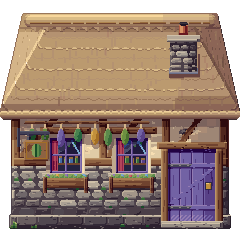
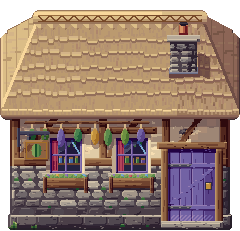
WIP: the herbalist's roof as a hipped thatch seen from above the front

Changed region(s): [[0.0, 0.0303, 1.0, 1.0], [0.9625, 0.9394, 0.9917, 0.9697]]

diff --git a/scripts/art/native/houses.py b/scripts/art/native/houses.py
@@ -893,6 +893,225 @@ def combed_eave(a, rm, rx0, rx1, y_eave, rng, fam='sand'):
     return em
 
 
+# ------------------------------------------------------------------------------------------------
+# hipped thatch seen from above the front (`thatch_form: hipped` in the look; Matt, 13 Nov, on the
+# herbalist's: "the roof looks wrong"). The combed roof was one trapezoid: a front elevation with no
+# depth, over walls and beside gable roofs that all show theirs, so it read as a flat sheet tilted
+# toward the eye. This one is the roof as the village's view shows every other roof: the front
+# slope, and a hip end each side running back from the front corner to the ridge (the west one lit,
+# the east one in shade), the thatch laid in courses a hand deep whose butt ends catch the light and
+# throw a line of shade on the course below, a block-cut ridge cap stitched with hazel, and an eave a
+# forearm thick, cut ends over a dark underside.
+# ------------------------------------------------------------------------------------------------
+HIP_RUN = 13.0           # world px from a front corner in to the ridge's end
+HIP_BACK = 6.6           # world px the ridge stands above the back eave on screen (the roof's far side)
+HIP_EAVE = 3.2           # world px of the eave's cut face
+HIP_COURSE = 4.4         # world px a course shows on the front slope
+HIP_CAP = 6.4            # world px of the ridge cap, its points included
+
+
+def hipped_form(shape, x0, x1, y_r, y_eave, hr, back, th):
+    """The roof's planes as masks: (roof, front, west hip, east hip, eave face), and each texel's
+    height on the roof t (0 at the eave's lip, 1 at the ridge)."""
+    H, W = shape
+    Y, X = np.mgrid[0:H, 0:W] + 0.5
+    lip = y_eave - th
+    y_b = y_r + back
+    t_f = np.clip((lip - Y) / max(1.0, lip - y_r), 0, 1)                 # the front slope's height at this row
+    xa_w, xa_e = x0 + hr * t_f, x1 - hr * t_f                             # the hip arrises
+    inx = (X >= x0) & (X < x1)
+    # the back arris of each hip end: from the back corner up to the ridge's end
+    top_w = y_b - back * np.clip((X - x0) / max(1.0, hr), 0, 1)
+    top_e = y_b - back * np.clip((x1 - X) / max(1.0, hr), 0, 1)
+    top = np.where(X < (x0 + x1) / 2, top_w, top_e)
+    body = inx & (Y >= top) & (Y < lip)
+    west = body & (X < xa_w)
+    east = body & (X >= xa_e)
+    front = body & ~west & ~east
+    eave = inx & (Y >= lip) & (Y < y_eave)
+    for cxc, side in ((x0 + 6, -1), (x1 - 6, 1)):                         # the eave's lower corners, rounded
+        corner = eave & ((X - cxc) * side > 0) & (Y > y_eave - 6) & ((X - cxc) ** 2 + (Y - (y_eave - 6)) ** 2 > 36)
+        eave &= ~corner
+    for cxc, side in ((x0 + 7, -1), (x1 - 7, 1)):                         # the back corners, a thatch's round
+        corner = body & ((X - cxc) * side > 0) & (Y < y_b + 7) & ((X - cxc) ** 2 + (Y - (y_b + 7)) ** 2 > 49)
+        west &= ~corner
+        east &= ~corner
+    # on a hip end the roof's height runs across the screen: t from the outer edge in to the ridge's end
+    t_w = np.clip((X - x0) / max(1.0, hr), 0, 1)
+    t_e = np.clip((x1 - X) / max(1.0, hr), 0, 1)
+    t = np.where(west, t_w, np.where(east, t_e, t_f))
+    return front | west | east | eave, front, west, east, eave, t
+
+
+def hipped_thatch(a, x0, x1, y_r, y_eave, rng, keep):
+    """Paint the hipped thatch (see above) and return (roof mask, lightness field). The value is an
+    OKLab lightness mapped onto the straw's own ramps (`straw_codes`), as the combed roof's was."""
+    H, W = a.shape
+    Y, X = np.mgrid[0:H, 0:W]
+    hr, back, th = q(HIP_RUN), q(HIP_BACK), q(HIP_EAVE)
+    lip = y_eave - th
+    rm, front, west, east, eave, t = hipped_form(a.shape, x0, x1, y_r, y_eave, hr, back, th)
+    fx = (X + 0.5 - x0) / max(1, x1 - x0)
+    span = lip - y_r
+    # --- the courses: where each one's butt ends lie, as a height on the roof ---------------------------
+    ch = q(HIP_COURSE)
+    edges_h = [0.0]
+    while edges_h[-1] < span - q(HIP_CAP) - 4:
+        edges_h.append(edges_h[-1] + ch + float(rng.integers(-1, 2)))
+    edges_h = np.array(edges_h[1:-1]) if len(edges_h) > 2 else np.array([span * 0.5])
+    hgt = t * span                                                        # texels up the slope
+    # the bundles' ragged ends: along the front they run in x, on a hip end in y
+    u = np.where(front | eave, X, Y + 700).astype(int)
+    L = np.full(a.shape, 0.0)
+    base_f = 0.71 + 0.03 * (fx < 0.34) - 0.04 * (fx > 0.74)
+    L = np.where(front, base_f, L)
+    L = np.where(west, 0.81, L)
+    L = np.where(east, 0.54, L)
+    lit_e = np.zeros(a.shape, bool)
+    shade_e = np.zeros(a.shape, bool)
+    for k, eh in enumerate(edges_h):
+        cuts = [-40]
+        while cuts[-1] < 1400:
+            cuts.append(cuts[-1] + int(rng.integers(5, 12)))
+        cuts = np.array(cuts)
+        rag = rng.integers(-1, 3, len(cuts)).astype(float)               # each bundle's end a texel or two up or down
+        bi = np.clip(np.searchsorted(cuts, u, side='right') - 1, 0, len(cuts) - 2)
+        # on the front a course's end is `d` texels above its edge; on a hip the slope is steeper on
+        # screen (hr texels for the whole height), so its bands are narrower
+        scale = np.where(front, 1.0, span / max(1.0, hr))
+        # each bundle's end is rounded: its first and last texel a row shorter, and a gap's width of
+        # shade between it and the next, so a course ends in a row of bundle tips, never a board's edge
+        pos = u - cuts[bi]
+        wid = cuts[bi + 1] - cuts[bi]
+        ends = (pos == 0) | (pos == wid - 1)
+        d = (hgt - (eh + (rag[bi] + ends) * np.where(front, 1.0, 0.0))) / scale
+        butt = front & (d >= 0) & (d < 2.0)
+        butt2 = front & (d >= 2.0) & (d < 4.0) & ~ends
+        cast = front & (d < 0) & (d >= -2.0)
+        cast2 = front & (d < -2.0) & (d >= -3.0)
+        L = np.where(butt, L + np.where(ends, 0.0, 0.10), L)
+        L = np.where(butt2, L + 0.035, L)
+        L = np.where(cast, L - 0.13, L)
+        L = np.where(cast2, L - 0.06, L)
+        # on a hip end the courses run back from the eye, so each shows only as a line of shade under
+        # the course above it (two rows of straw on the lit hip keep their lit edge)
+        hcast = (west | east) & (d < 0) & (d >= -1.0) & (k % 2 == 0)
+        L = np.where(hcast, L - np.where(west, 0.08, 0.05), L)
+        lit_e |= butt | butt2
+        shade_e |= cast | cast2 | hcast
+    # --- the planes' turns --------------------------------------------------------------------------------
+    t_f = np.clip((lip - (Y + 0.5)) / max(1.0, span), 0, 1)
+    xa_w, xa_e = x0 + hr * t_f, x1 - hr * t_f
+    arris_w = (front | west) & (np.abs(X + 0.5 - xa_w) < 1.5) & (Y < lip - 2)
+    L = np.where(arris_w, 0.89, L)                                        # the west hip's rounded turn, lit
+    crease = (front | east) & (X + 0.5 - xa_e >= -1.0) & (X + 0.5 - xa_e < 2.0)
+    L = np.where(crease, np.minimum(L, 0.46), L)                          # the east hip's turn, away from the light
+    L = np.where(west & (X < x0 + 2), 0.87, L)                            # the west eave's lit rim
+    L = np.where(east & (X >= x1 - 2), 0.45, L)
+    code_ = straw_codes(L)
+    # --- combing: strands along the fall (down the front, across a hip end), on a sibling at the same tone --
+    sibs = [FI[f] for f in SAND_SIBS]
+    calm = (front | west | east) & ~lit_e & ~shade_e & ~arris_w & ~crease
+    for _ in range(int(rm.sum() / 26)):
+        sx, sy = int(rng.integers(x0, x1 - 2)), int(rng.integers(y_r, lip))
+        n = int(rng.integers(4, 10))
+        if front[sy, sx]:
+            sl = (slice(sy, min(H, sy + n)), slice(sx, sx + 2))
+        elif (west[sy, sx] or east[sy, sx]) and rng.random() < 0.35:
+            sl = (slice(sy, min(H, sy + 2)), slice(sx, min(W, sx + n)))
+        else:
+            continue
+        ok = calm[sl]
+        c0 = code_[sl]
+        if rng.random() < 0.3:
+            code_[sl] = np.where(ok, straw_codes(L[sl] - 0.07), c0)       # a darker strand, weathered
+        else:
+            nf = np.where(c0 // 8 == sibs[1], sibs[2] if rng.random() < 0.6 else sibs[0], sibs[1])
+            code_[sl] = np.where(ok, nf * 8 + c0 % 8, c0)
+    a[front | west | east] = code_[front | west | east]
+    # --- the eave: the lip's lit tips, the cut ends, the underside turning under ---------------------------
+    rel = Y - lip
+    Le = np.full(a.shape, 0.68)
+    x = x0
+    while x < x1:
+        n = int(rng.integers(5, 11))
+        cols = (X >= x) & (X < x + n)
+        drop = int(rng.integers(0, 2))                                    # some bundles' tips a texel lower
+        Le = np.where(cols & (rel == drop), 0.89, Le)
+        Le = np.where(cols & (rel == drop + 1), 0.81, Le)
+        Le = np.where(cols & (rel < drop), 0.71, Le)
+        Le = np.where(cols & (X == x) & (rel <= drop + 1), 0.71, Le)      # the gap between two bundles
+        # the cut ends: pairs of columns a step apart, each its own length
+        k = x
+        while k < x + n:
+            dl = 0.045 if ((k // 2) % 2) else -0.03
+            ln = int(rng.integers(2, 5))
+            Le = np.where((X >= k) & (X < k + 2) & (rel >= drop + 2) & (rel < drop + 2 + ln), 0.68 + dl, Le)
+            k += 2
+        x += n
+    Le = np.where(rel >= th - 4, np.select([rel >= th - 1, rel >= th - 2, rel >= th - 3], [0.43, 0.46, 0.54], 0.60), Le)
+    Le = np.where((fx > 0.74) & (rel < th - 3), Le - 0.05, Le)
+    a[eave] = straw_codes(Le)[eave]
+    # the eave's own shade on the last course of the hips' feet: none; the lip is the brightest straw
+    # --- the ridge cap: a raised roll, block-cut along its foot, stitched with hazel ----------------------
+    cap_h = q(HIP_CAP)
+    pts_h = 6
+    cx0, cx1 = x0 + hr - 7, x1 - hr + 7
+    yc0 = y_r - 3
+    rr = 6.0
+    core = (X >= cx0) & (X < cx1) & (Y >= yc0) & (Y < yc0 + cap_h - pts_h)
+    for ex, side in ((cx0 + rr, -1), (cx1 - rr, 1)):                      # its ends rounded
+        cut = core & ((X + 0.5 - ex) * side > 0) & ((X + 0.5 - ex) ** 2 + (Y + 0.5 - (yc0 + rr)) ** 2 > rr * rr) & (Y < yc0 + rr)
+        core &= ~cut
+    bw = 12
+    pts = np.zeros(a.shape, bool)
+    yb = yc0 + cap_h - pts_h
+    xk = cx0 + 2
+    while xk + bw <= cx1 - 1:
+        c = xk + bw / 2.0
+        kk = Y - yb
+        pts |= (kk >= 0) & (kk < pts_h) & (np.abs(X + 0.5 - c) < (bw / 2.0) * (1 - kk / (pts_h + 0.5)))
+        xk += bw
+    cap = core | pts
+    relc = Y - yc0
+    fxc = (X + 0.5 - cx0) / max(1, cx1 - cx0)
+    Lc = np.select([relc < 1, relc < 5, relc < 8, relc < 11], [0.81, 0.89, 0.81, 0.71], 0.60)
+    Lc = np.where(pts, np.where(((X - cx0 - 2) % bw) < bw / 2, 0.81, 0.68), Lc)
+    Lc = np.where(pts & (relc >= cap_h - 2), Lc - 0.08, Lc)
+    Lc = Lc - 0.06 * (fxc > 0.74)
+    # its shade on the slope under the points, two texels deep and following them
+    under = ndi.binary_dilation(cap, structure=np.array([[0, 1, 0], [0, 1, 0], [0, 0, 0]], bool), iterations=3) & ~cap & rm
+    a[under] = straw_codes(np.minimum(L, 0.71) - 0.16)[under]
+    a[cap] = straw_codes(Lc)[cap]
+    # the liggers: two hazel rods along the cap and the spars stitched between them in a row of Vs
+    stitch = np.zeros(a.shape, bool)
+    r0, r1 = yc0 + 4, yc0 + 10
+    inner = (X >= cx0 + 5) & (X < cx1 - 5)
+    stitch |= core & inner & ((Y == r0) | (Y == r1))
+    ph = (X - cx0 - 5) % 12
+    for j, rowy in enumerate(range(r0 + 1, r1)):
+        stitch |= core & inner & (Y == rowy) & (((ph >= j) & (ph < j + 2)) | ((ph >= 10 - j) & (ph < 12 - j)))
+    a[stitch] = code('timber_warm', 2)
+    a[stitch & (fxc < 0.6) & (Y == r0)] = code('timber_warm', 3)
+    keep |= stitch
+    rm = rm | cap
+    plane = np.where(cap, Lc, np.where(eave, Le, L))
+    return rm, plane, dict(front=front, lip=lip, courses=[int(round(lip - e)) for e in edges_h])
+
+
+def stack_shade(a, rm, sx1, y_top, y_foot):
+    """A stack's shadow on the thatch east and south of it (the one light, upper left): a wedge two
+    ramp steps down, hard-edged, so the stack stands in the roof and not on it."""
+    Y, X = np.mgrid[0:a.shape[0], 0:a.shape[1]]
+    n = q(4.0)
+    k = X - sx1
+    m = rm & (k >= 0) & (k < n) & (Y >= y_top + q(3.0) + k * 0.6) & (Y < y_foot + 2 + k * 0.5)
+    straw = m & (a >= 0) & np.isin(a // 8, [FI[f] for f in SAND_SIBS])
+    a[straw] = (a[straw] // 8) * 8 + np.maximum(a[straw] % 8 - 2, 0)
+    return straw
+
+
+
 def eave_line(a, L, R, y_top, keep):
     """The crisp line under the thatch's eave on the wall (eastward-edges 11.9's band under the
     bargeboards, GR4): two texels about 70 % darker, nothing in them above GABLE_LINE_MAX of the
@@ -2093,6 +2312,63 @@ def doors_on_grid(spec: dict) -> dict:
 
 
 def building(spec: dict, seed: int = 0) -> 'V.Built':
+    if spec.get('thatch_form') == 'hipped':
+        return hipped_building(spec, seed)
+    return _building(spec, seed)
+
+
+def hipped_building(spec: dict, seed: int) -> 'V.Built':
+    """A house whose thatch is redrawn as a hipped roof seen from above the front (13 Nov, the
+    herbalist's). The house is first built as it was (its walls, openings, sign, weeds, the eave's
+    shade on the wall, the storm's boards and cracks: every draw of its generator as before), and then
+    only what stands above the eave's foot is drawn again, from a generator of its own: the roof, its
+    stack, and in the damage picture the gap torn in it. So nothing below the eave changes by a texel,
+    and the house's shadow and the lawn laid round it stay as they were."""
+    old = _building({k: v for k, v in spec.items() if k != 'thatch_form'}, seed)
+    p, info = old.base, old.info
+    a = p.a
+    L, R, y_e, y_r, y_eave = info['L'], info['R'], info['y_e'], info['y_r'], info['y_eave']
+    Y, X = np.mgrid[0:a.shape[0], 0:a.shape[1]]
+    above = Y < y_eave
+    a[above] = -1
+    a[(Y >= y_eave) & (Y < y_eave + 2) & ((X < L - 1) | (X > R))] = -1      # the old eave's outline under its overhang
+    rng = np.random.default_rng((seed * 9176 + 13) & 0xffffffff)
+    keep = np.zeros(a.shape, bool)
+    rx0, rx1 = info['rx']
+    rm, plane, hp = hipped_thatch(a, max(1, rx0), min(a.shape[1] - 1, rx1), y_r, y_eave, rng, keep)
+    pots = []
+    if spec.get('chimney') and spec.get('stack_t') is not None:
+        cw = q(spec.get('chimney_w', 9))
+        for cx in spec['chimney']:
+            y_foot = int(round(y_eave - spec['stack_t'] * (y_eave - y_r)))
+            rise = spec.get('stack_rise', 11.0)
+            pp, sm = thatch_stack(a, rm, plane, L + q(cx), cw, y_foot, rise, rng, wide=cw >= q(12))
+            pots += pp
+            keep |= sm & (a // 8 == FI['slate_cool'])
+            stack_shade(a, rm & ~sm, int(L + q(cx) - cw // 2) + cw + 1, y_foot - q(rise), y_foot)
+    V.tidy(a, keep=keep | ~above)
+    V.outline(a)
+    V.tidy(a, passes=1, keep=keep | ~above)
+    info.update(roof=rm, hipped=hp, pots=pots, calm=ndi.binary_dilation(rm, iterations=1))
+    dmg = old.damage
+    if dmg is not None:
+        d = dmg.a
+        d[above] = -1
+        cut = np.zeros(a.shape, bool)
+        for tok in spec.get('damage', []):
+            if isinstance(tok, list) and tok[0] == 'hole':
+                cx = L + q(tok[1])
+                was = d >= 0
+                thatch_tear(d, a, info, cx, np.random.default_rng((seed * 31 + cx * 7919) & 0xffffffff))
+                cut |= (d >= 0) & ~was
+        # the gap and the straw pulled out of it are the roof's own surface, not things standing on it:
+        # they get no outline. Where the old picture's outline ran along the cut at the eave's foot, it stays
+        lone = cut & ~ndi.binary_opening(cut, structure=np.ones((1, 2), bool)) & ~ndi.binary_opening(cut, structure=np.ones((2, 1), bool))
+        d[lone] = -1
+    return V.Built(p, dmg, info)
+
+
+def _building(spec: dict, seed: int = 0) -> 'V.Built':
     spec = VO.front_gable(doors_on_grid(spec), seed)
     rng = np.random.default_rng(seed)
     w, dep = spec['w'], spec['depth']
@@ -2734,6 +3010,107 @@ def thatch_hole(d, base, info, cxw, rw, rh, rng):
         slumped_bundles(d, base, m, rm, rng)
     else:
         scorch(d, base, (xs.min() + xs.max()) / 2, (top + bot) / 2, (xs.max() - xs.min()) * 0.75, (bot - top) * 0.9, rng, rm & ~m)
+
+
+def thatch_tear(d, base, info, cxw, rng):
+    """The storm's hole in a hipped thatch (Matt's roof, 13 Nov): three courses ripped out, each a
+    different length, so the gap follows the courses and its sides are ragged. In it the roof's depth
+    shows: under the torn upper edges the thatch's own section (a hand and a half of packed straw, cut
+    ends, darker towards the loft) with strands hanging from it; two rafters running down the slope, the
+    east one snapped, and what is left of the hazel battens across them, one hanging; the loft dark
+    behind, darkest under the edges. The straw below the gap ends in a torn lip that catches the light,
+    its broken ends standing up into the dark. Returns the gap's mask."""
+    hp = info['hipped']
+    rm, front = info['roof'], hp['front']
+    cs = sorted(hp['courses'])                                    # rows of the courses' edges, top first
+    cy = info['y_r'] + (info['y_eave'] - info['y_r']) * 0.47
+    i = int(np.argmin([abs(c - cy) for c in cs]))
+    i = min(max(i, 1), len(cs) - 3)
+    y0, y1, y2, y3 = cs[i - 1], cs[i], cs[i + 1], cs[i + 2]
+    Y, X = np.mgrid[0:d.shape[0], 0:d.shape[1]]
+
+    def torn(xa, xb, ya, yb):
+        """One course's gap: its ends ragged in runs of rows."""
+        m = np.zeros(d.shape, bool)
+        y = ya
+        while y < yb:
+            n = int(rng.integers(2, 5))
+            ja, jb = int(rng.integers(-4, 4)), int(rng.integers(-3, 5))
+            m |= (Y >= y) & (Y < min(yb, y + n)) & (X >= xa + ja) & (X < xb + jb)
+            y += n
+        return m
+
+    up = torn(cxw - 33, cxw + 2, y0 + 2, y1 + 2)
+    mid = torn(cxw - 25, cxw + 35, y1 + 2, y2 + 2)
+    low = torn(cxw - 10, cxw + 25, y2 + 2, y3)
+    hole = ndi.binary_closing((up | mid | low), structure=np.ones((3, 3), bool)) & front
+    if hole.sum() < 40:
+        return hole
+    void = code('void', 0)
+    d[hole] = code('void', 1)
+    # rafters down the slope (the east one snapped half way), battens across them (one hanging)
+    snap = (y1 + y2) // 2 + 2
+    for rx_, to in ((cxw - 19, None), (cxw + 13, snap)):
+        raf = hole & (X >= rx_) & (X < rx_ + 5)
+        if to is not None:
+            raf &= Y < to + (X - rx_)                             # its broken end, cut on the slant
+        d[raf] = code('timber', 2)
+        d[raf & (X == rx_)] = code('timber_warm', 4)
+        d[raf & (X == rx_ + 4)] = code('timber_cool', 1)
+    by0 = y0 + 10
+    bat = hole & (Y >= by0) & (Y < by0 + 3) & (X < cxw - 6)
+    by1 = y1 + 11
+    bat2 = hole & (Y >= by1) & (Y < by1 + 3) & (X < cxw + 4)
+    for b_, yy in ((bat, by0), (bat2, by1)):
+        d[b_ & (Y == yy)] = code('timber_warm', 4)
+        d[b_ & (Y == yy + 1)] = code('timber_cool', 3)
+        d[b_ & (Y == yy + 2)] = code('timber_cool', 1)
+    hang = V.seg_mask(d.shape, cxw + 4, by1 + 1, cxw + 10, by1 + 12, 1.3) & hole
+    d[hang] = code('timber_cool', 3)
+    d[hang & ~np.roll(hang, 1, axis=1)] = code('timber_warm', 4)
+    # under the edges that overhang it the loft is darkest, and what stands there is in their shade
+    roofed = hole & ~np.roll(hole, 10, axis=0)
+    tim = roofed & (d != code('void', 1))
+    d[tim] = (d[tim] // 8) * 8 + np.maximum(d[tim] % 8 - 2, 0)
+    d[roofed & (d == code('void', 1))] = void
+    # the thatch's section under each torn upper edge: packed straw, cut ends, darker towards the loft
+    depth = np.zeros(d.shape, int) + 99
+    for k in range(7, -1, -1):
+        depth[hole & ~np.roll(hole, k + 1, axis=0)] = np.minimum(depth[hole & ~np.roll(hole, k + 1, axis=0)], k)
+    sect = hole & (depth < 7)
+    Ls = np.select([depth <= 1, depth <= 4], [0.60, 0.54], 0.46) + np.where((X // 2) % 2 == 0, 0.0, -0.03)
+    d[sect] = straw_codes(Ls)[sect]
+    # strands hanging from it, two texels wide, each its own length
+    cols = np.nonzero(hole.any(0))[0]
+    x = int(cols.min()) + 1
+    while x < cols.max() - 1:
+        if rng.random() < 0.5:
+            top = np.nonzero(hole[:, x] & hole[:, x + 1])[0]
+            if len(top):
+                ln = int(rng.integers(9, 15))
+                st = hole & (X >= x) & (X < x + 2) & (Y >= top.min() + 7) & (Y < top.min() + ln)
+                d[st] = straw_codes(np.full(d.shape, 0.57))[st]
+                d[st & ~np.roll(st, -1, axis=0)] = code('sand_cool', 0)
+        x += int(rng.integers(3, 6))
+    # the west side's cut: the thatch's thickness seen where it was torn across
+    side = hole & ~np.roll(hole, 3, axis=1) & ~sect
+    d[side] = straw_codes(np.full(d.shape, 0.54))[side]
+    # the torn lip below the gap: the straw's broken ends catching the light, standing up into the dark
+    below = np.roll(hole, 1, axis=0) & ~hole & rm & (base >= 0)
+    d[below] = straw_codes(np.full(d.shape, 0.89))[below]
+    x = int(cols.min())
+    while x < cols.max():
+        bot = np.nonzero(hole[:, x])[0]
+        if len(bot) and rng.random() < 0.6:
+            ht = int(rng.integers(2, 6))
+            tf = hole & (X >= x) & (X < x + 2) & (Y > bot.max() - ht) & (Y <= bot.max())
+            d[tf] = straw_codes(np.full(d.shape, 0.81))[tf]
+            d[tf & ~np.roll(tf, 1, axis=0)] = straw_codes(np.full(d.shape, 0.89))[tf & ~np.roll(tf, 1, axis=0)]
+        x += int(rng.integers(2, 5))
+    # the roof's own straw at the gap's upper rim and sides lifted and shaded, a step down
+    rim = (np.roll(hole, -1, axis=0) | np.roll(hole, 1, axis=1) | np.roll(hole, -1, axis=1)) & ~hole & ~below & rm & (base >= 0)
+    d[rim] = (base[rim] // 8) * 8 + np.maximum(base[rim] % 8 - 1, 0)
+    return hole
 
 
 def slumped_bundles(d, base, hole, rm, rng):
